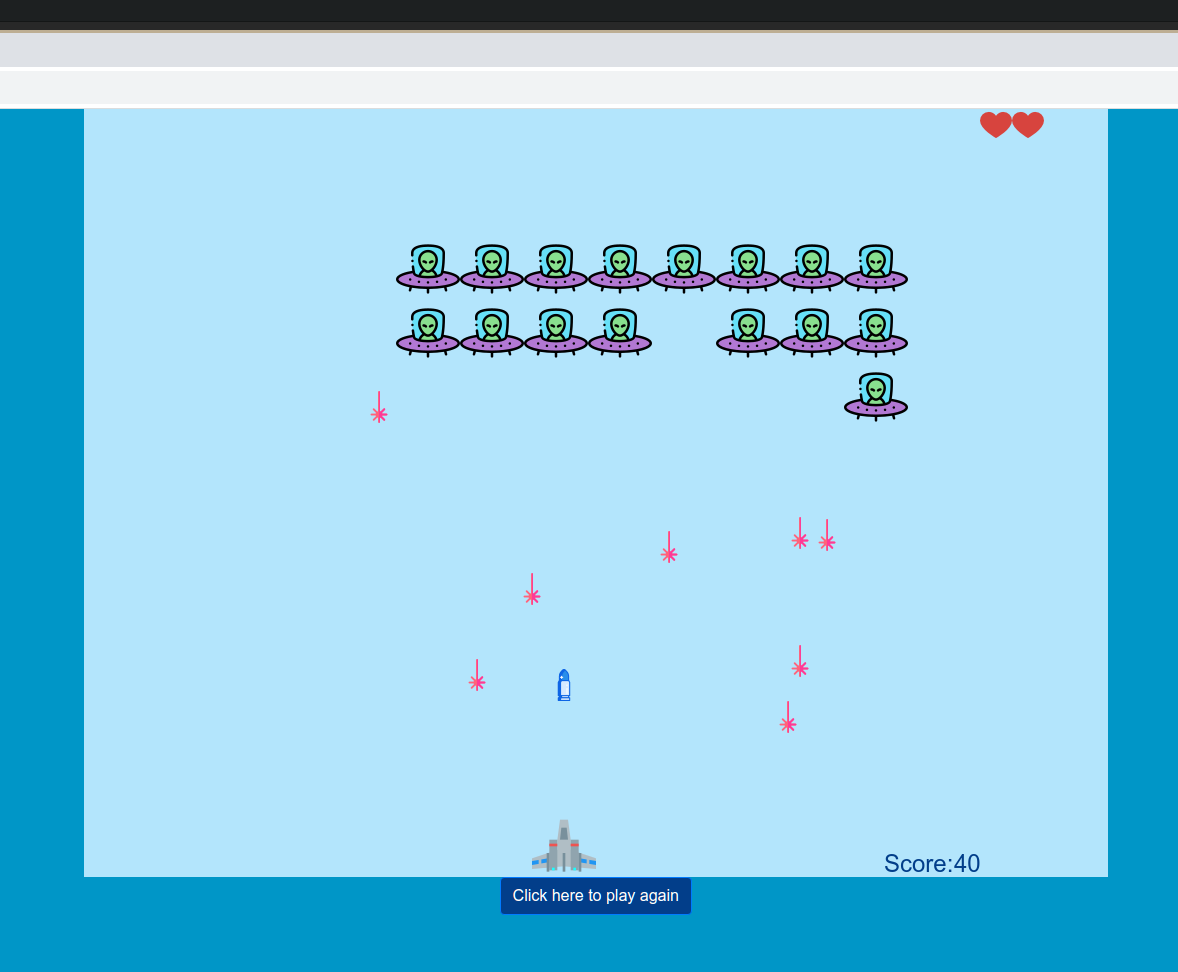
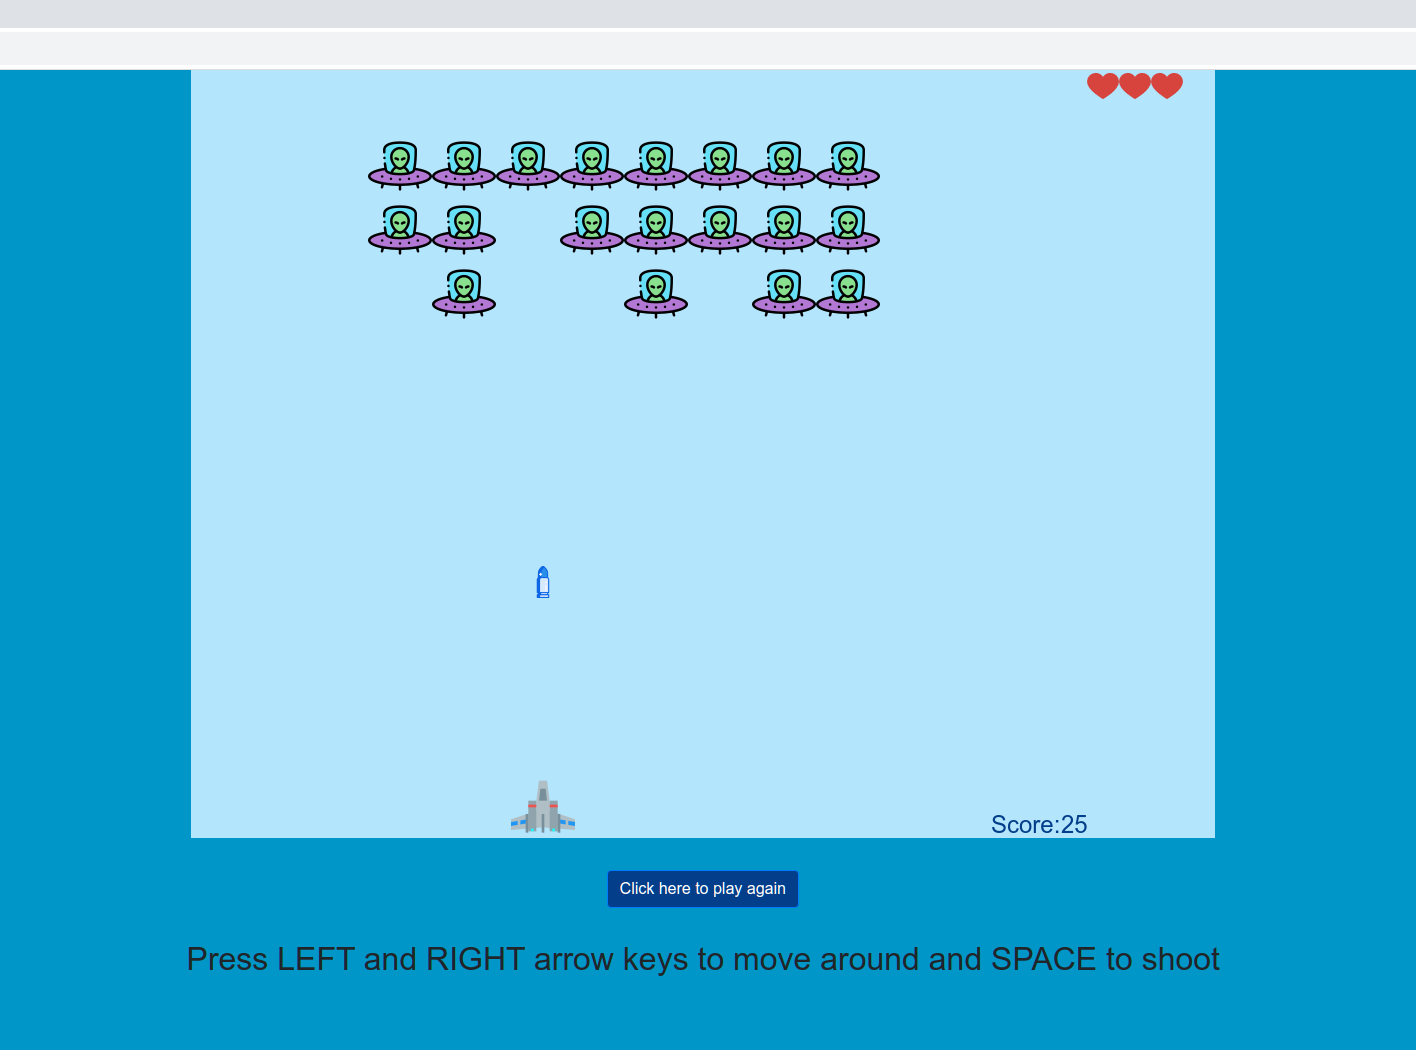
Update pics and readme

diff --git a/index.html b/index.html
@@ -24,7 +24,7 @@
   <div class="d-flex justify-content-center">
     <button id="restart_button" type="button" class="btn btn-primary" onClick="restart()">Click here to play again</button>
   </div>
-  <div class="d-flex justify-content-center">
+  <div id="instruct" class="d-flex justify-content-center">
     <h2> Press LEFT and RIGHT arrow keys to move around and SPACE to shoot</h2>
   </div>
 

diff --git a/js/sketch.js b/js/sketch.js
@@ -13,8 +13,10 @@ function setup() {
 
   // load images
   bg = loadImage("images/background.png");
+  // Create Canvas
   my_canvas = createCanvas(1024, 768);
   my_canvas.parent('my_canvas');
+
   spaceImg = loadImage("images/space.png");
   bulletImg = loadImage("images/bullet.png");
   alienImg = loadImage("images/alien.png");

diff --git a/style.css b/style.css
@@ -14,3 +14,6 @@ body{
     margin-top: 2em;
     margin-bottom: 2em;
 }
+#instruct{
+    color: aliceblue;
+}
